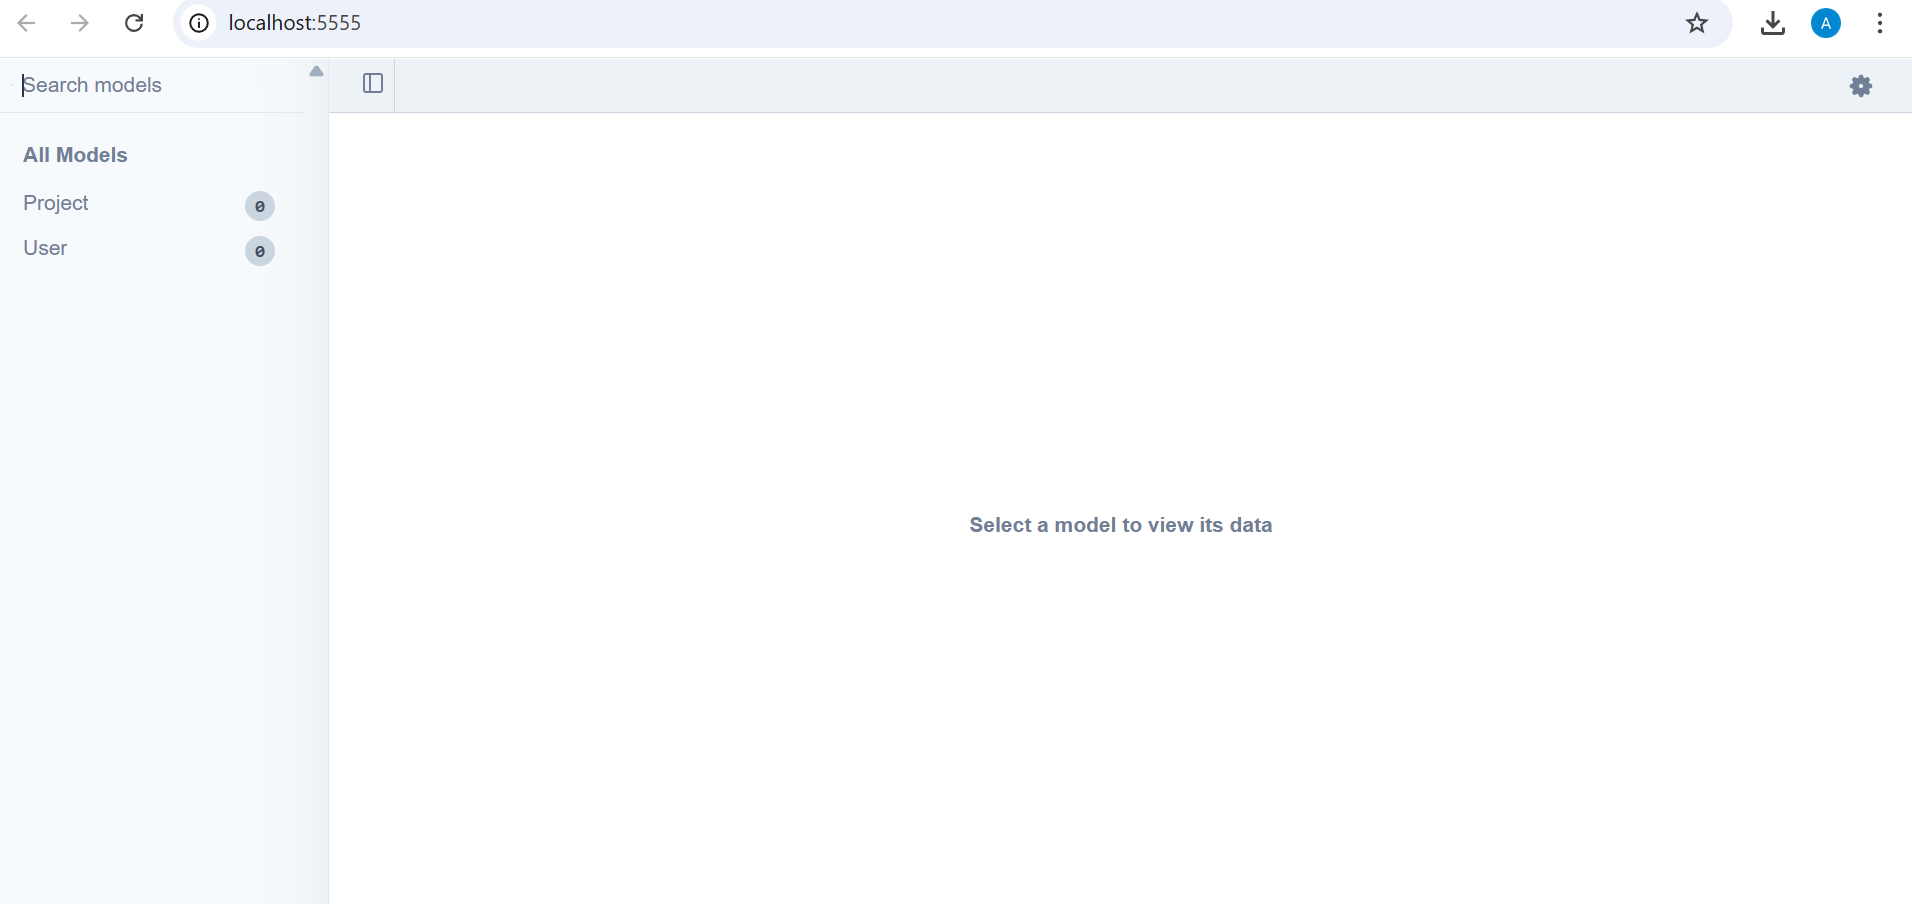
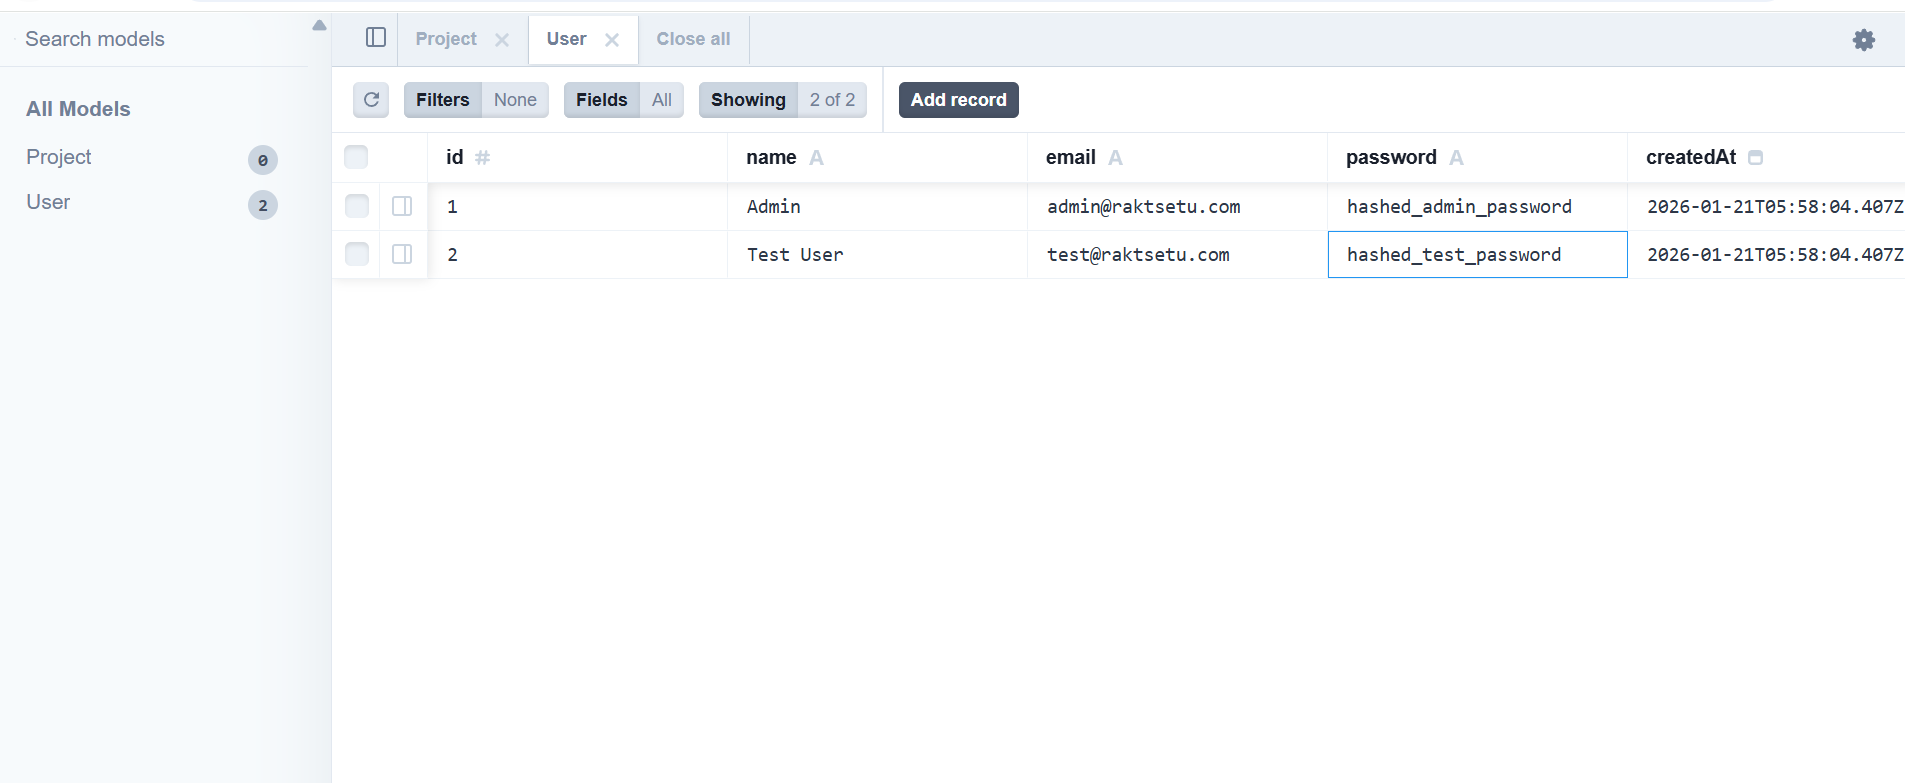
added prisma migrations and seed script

diff --git a/prisma/seed.js b/prisma/seed.js
@@ -1,0 +1,37 @@
+import { PrismaClient } from "@prisma/client";
+
+const prisma = new PrismaClient();
+
+async function main() {
+  const userCount = await prisma.user.count();
+
+  if (userCount === 0) {
+    await prisma.user.createMany({
+      data: [
+        {
+          name: "Admin",
+          email: "admin@raktsetu.com",
+          password: "hashed_admin_password",
+        },
+        {
+          name: "Test User",
+          email: "test@raktsetu.com",
+          password: "hashed_test_password",
+        },
+      ],
+    });
+
+    console.log("Seed data inserted successfully");
+  } else {
+    console.log("Seed data already exists, skipping");
+  }
+}
+
+main()
+  .catch((e) => {
+    console.error(e);
+    process.exit(1);
+  })
+  .finally(async () => {
+    await prisma.$disconnect();
+  });
